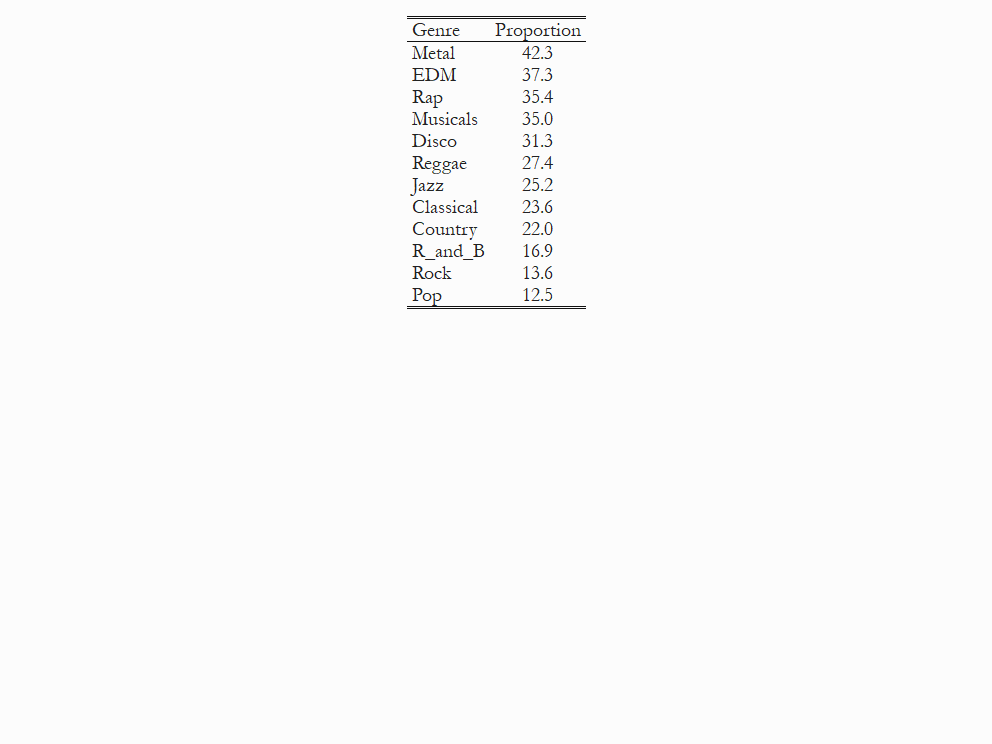
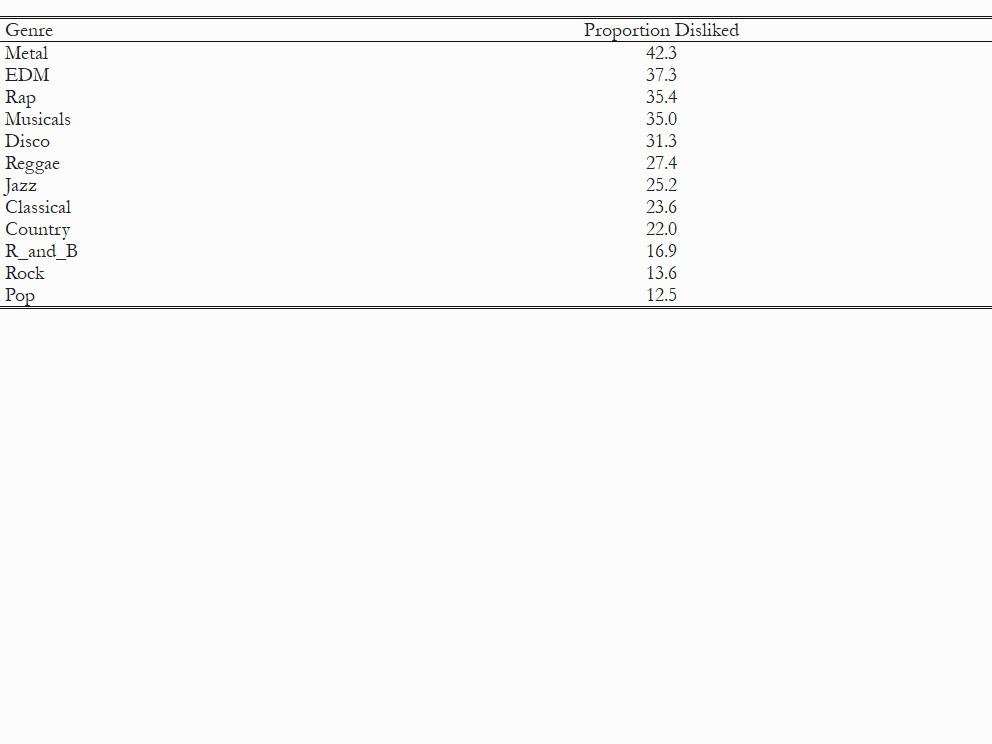
new tab who dis

Changed region(s): [[0.5, 0.0309, 0.75, 0.4328], [0.4062, 0.0309, 0.5, 0.4019], [0.0, 0.0309, 0.0938, 0.4328]]

diff --git a/Tabs/desc-tab-dislike.html b/Tabs/desc-tab-dislike.html
@@ -280,12 +280,12 @@ border: 0;
 
 </head>
 <body>
-<table class=" lightable-classic-2" style="font-size: 20px; color: black; font-family: Garamond; width: auto !important; margin-left: auto; margin-right: auto;">
+<table class=" lightable-classic-2" style="font-size: 20px; color: black; font-family: Garamond; margin-left: auto; margin-right: auto;">
 <caption style="font-size: initial !important;"></caption>
  <thead>
   <tr>
    <th style="text-align:left;"> Genre </th>
-   <th style="text-align:center;"> Proportion </th>
+   <th style="text-align:center;"> Proportion Disliked </th>
   </tr>
  </thead>
 <tbody>
